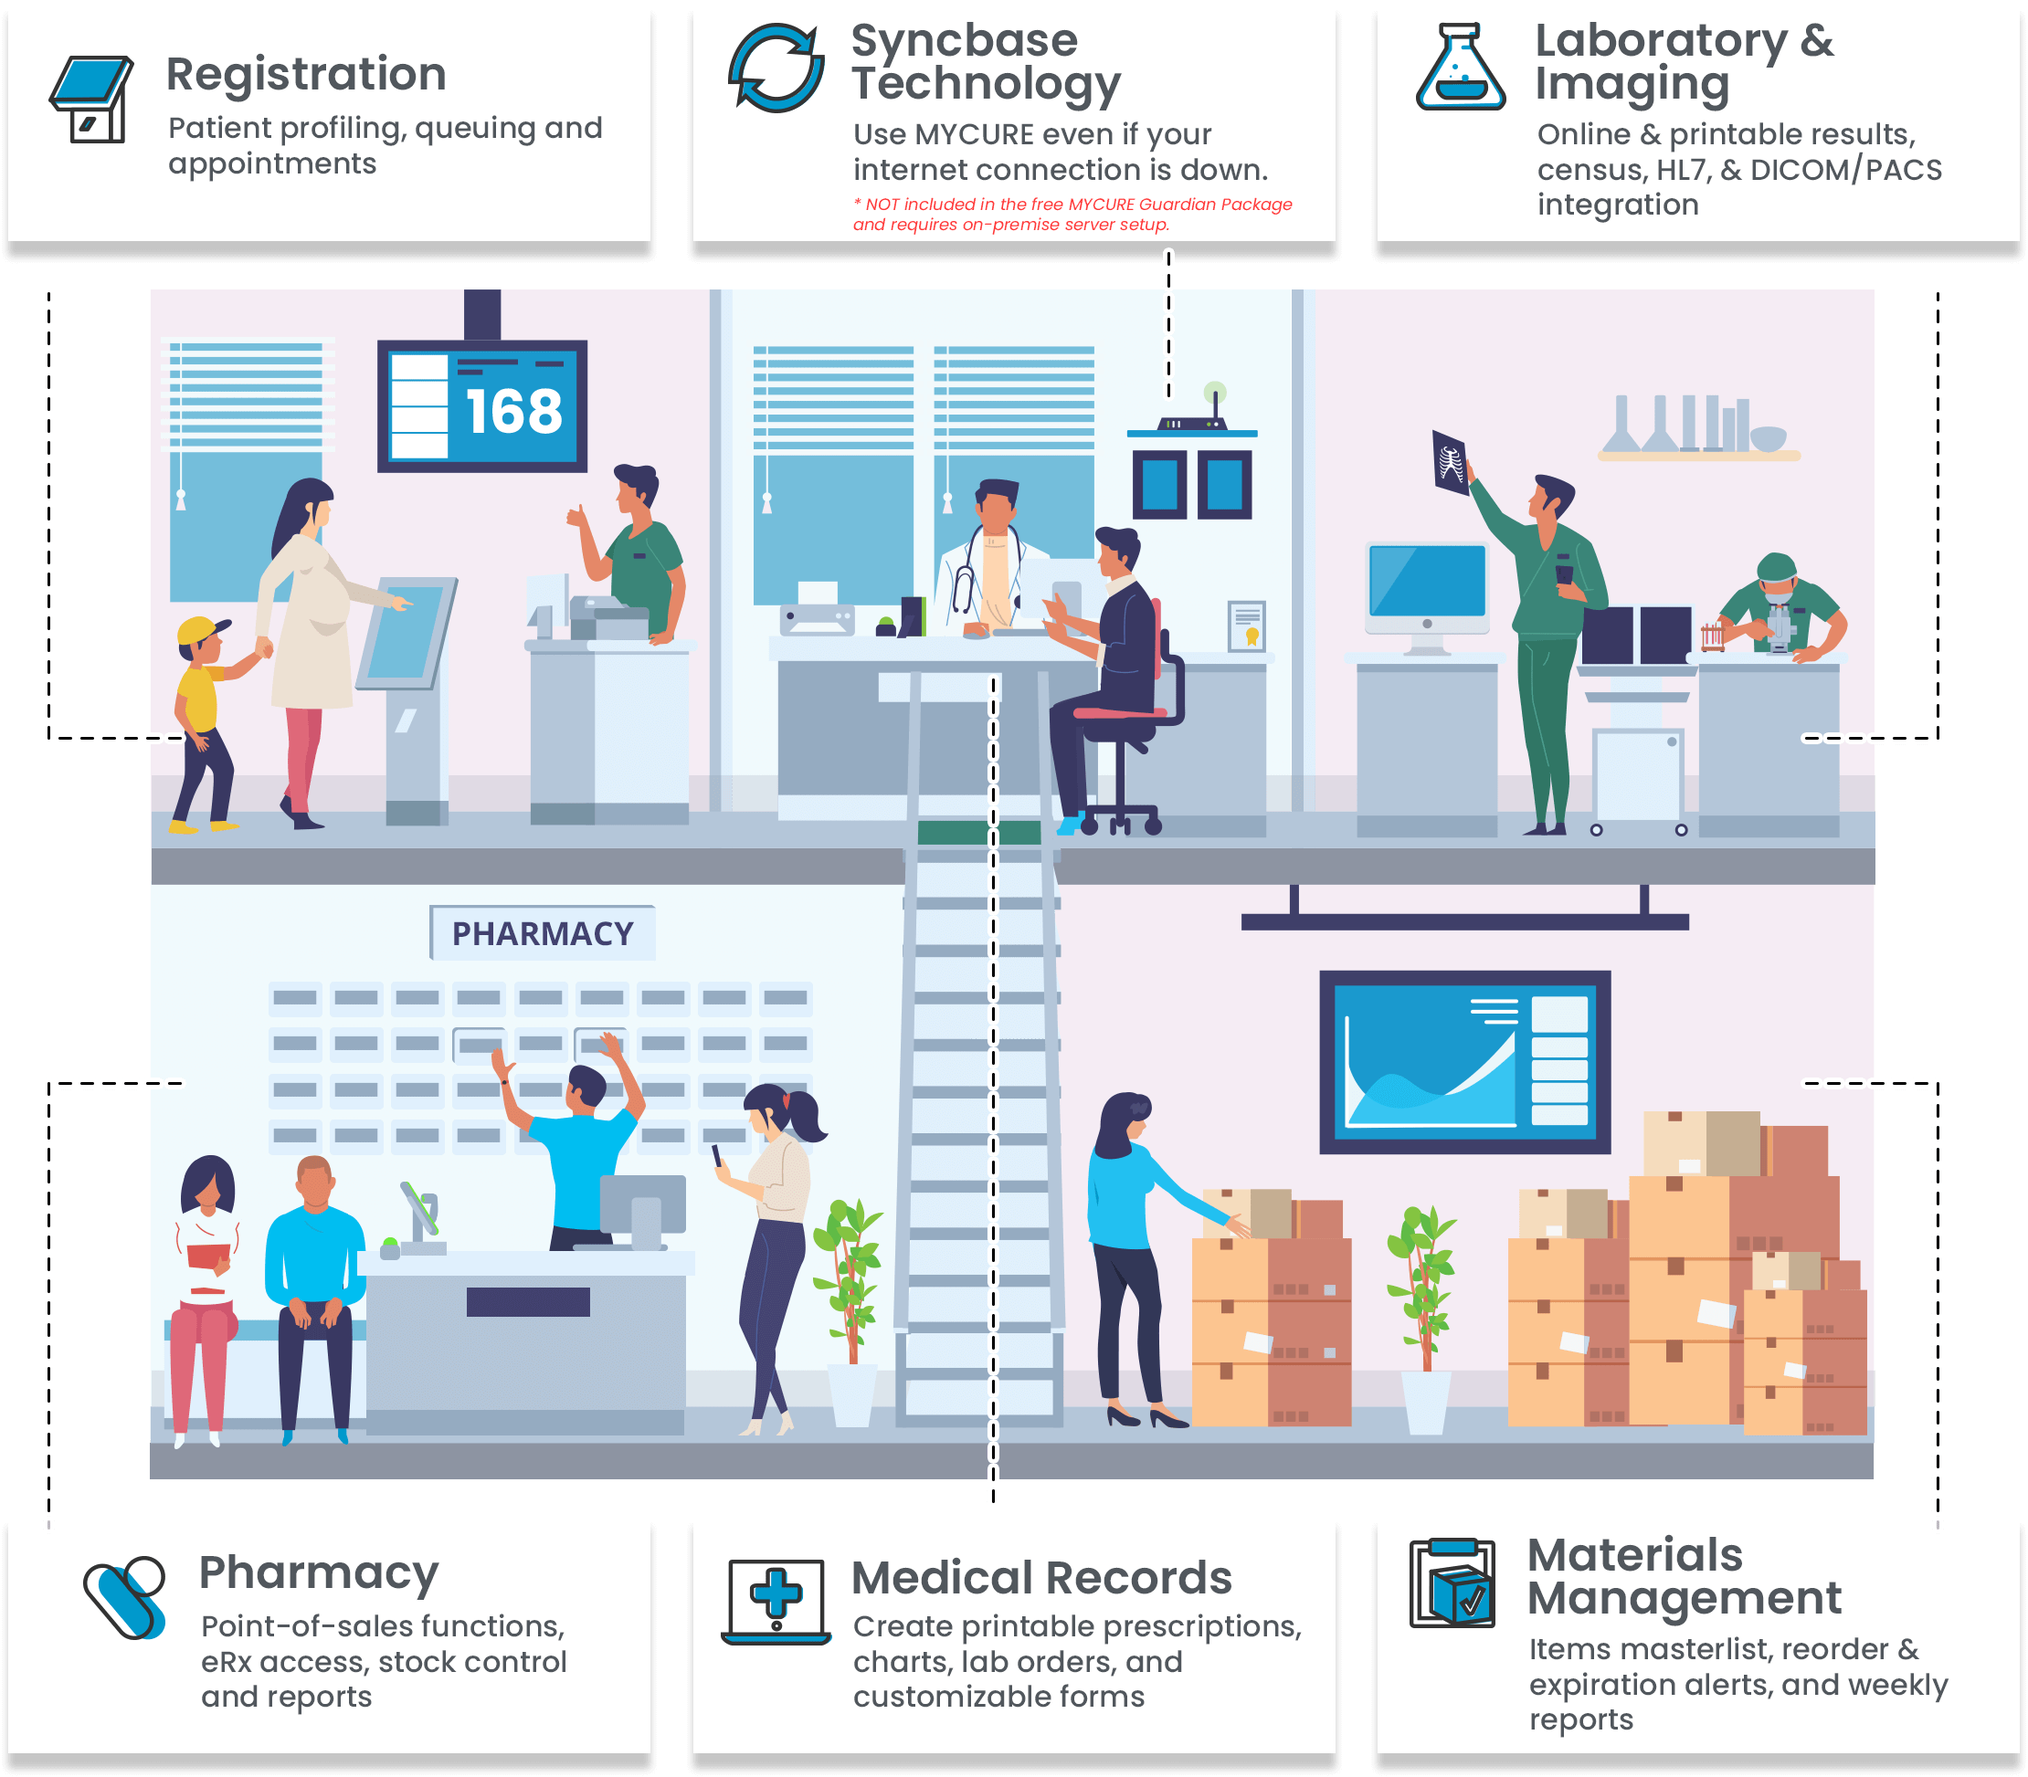
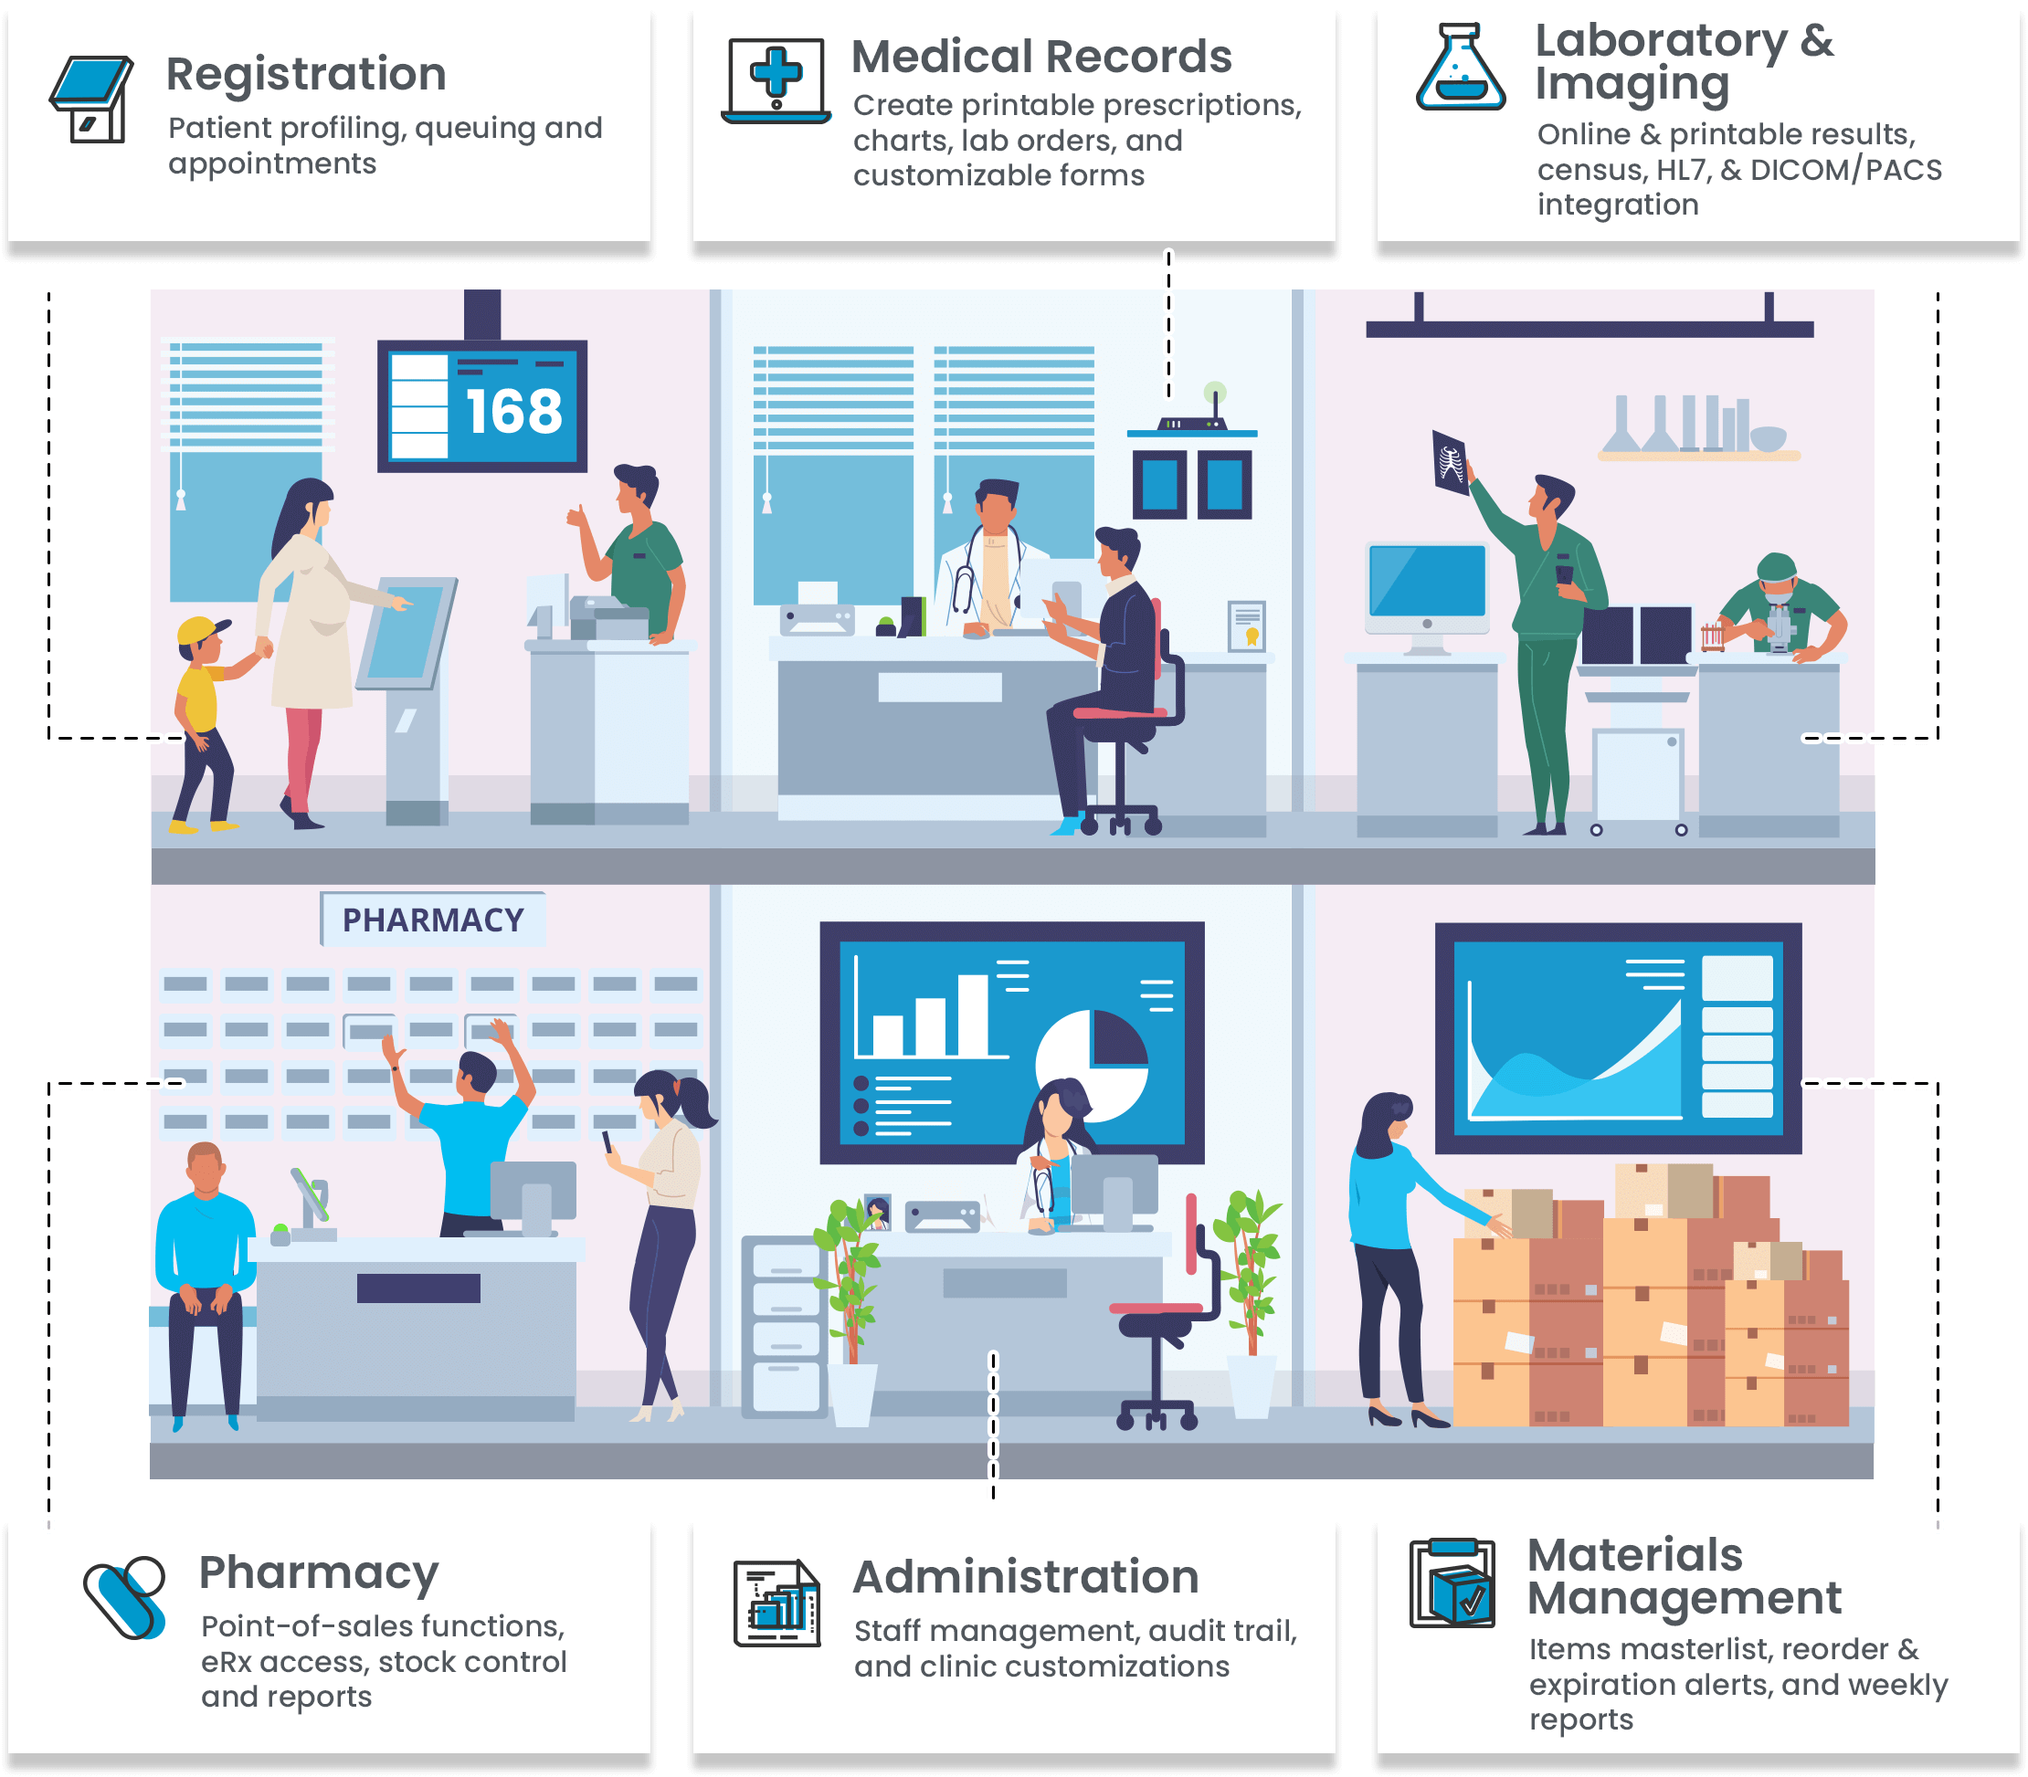
refactor(mc-haert): update diagram

diff --git a/components/mycure-heart/features/constants.js b/components/mycure-heart/features/constants.js
@@ -20,9 +20,9 @@ export const SOLUTIONS = [
     customPath: 'module-icons/',
   },
   {
-    title: 'Syncbase Technology',
-    description: 'Use MYCURE even if your internet connection is down.',
-    icon: 'mycure-web-clinic-feature-icon-premium-syncbase-technology',
+    title: 'Medical Records',
+    description: 'Create printable prescriptions, charts, lab orders, and customizable forms.',
+    icon: 'mycure-web-clinic-feature-icon-core-emr',
     customPath: 'module-icons/',
   },
   {
@@ -38,9 +38,9 @@ export const SOLUTIONS = [
     customPath: 'module-icons/',
   },
   {
-    title: 'Medical Records',
-    description: 'Create printable prescriptions, charts, lab orders, and customizable forms.',
-    icon: 'mycure-web-clinic-feature-icon-core-emr',
+    title: 'Administration',
+    description: 'Staff management, audit trail, and clinic customizations',
+    icon: 'mycure-web-clinic-feature-icon-core-administrative',
     customPath: 'module-icons/',
   },
   {
